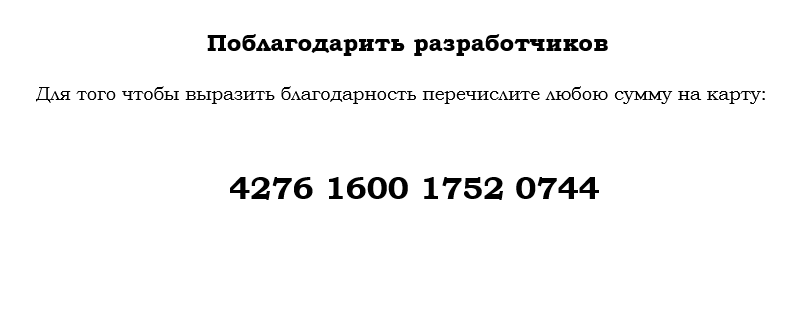
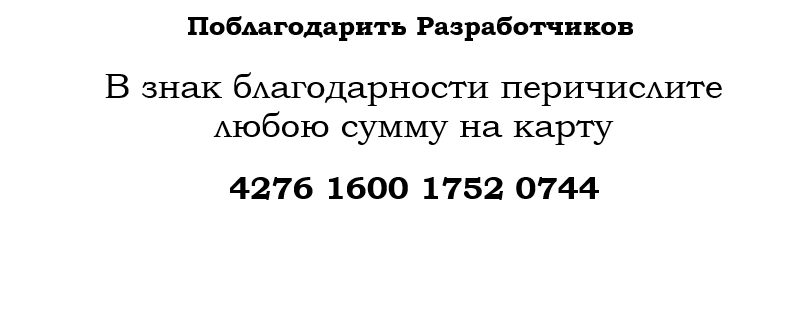
Переделал картинку поблагодарить разработчиков

Changed region(s): [[0.2185, 0.031, 0.8115, 0.1858], [0.0312, 0.2167, 0.9675, 0.3406], [0.2497, 0.3406, 0.7803, 0.4644]]

diff --git a/views/sass/_header.sass b/views/sass/_header.sass
@@ -161,12 +161,18 @@
     left: 50%
     transform: translate(-50%, -50%)
     z-index: 100
-    &__img
+    &__img-background
         border: 1px solid black
+        width: 32rem
+
+        height: 13rem
+        background-image: url('/img/thanks.png')
+        background-size: contain
+        background-repeat: no-repeat 
     &__close-img
         position: relative
-        left: 77.8rem
-        top: -32.5rem
+        left: 29.5rem
+        top: -13.0rem
         border: 1px solid black
-        z-index: 100
+        z-index: 101
         cursor: pointer

diff --git a/views/css/style.css b/views/css/style.css
@@ -211,15 +211,20 @@ html {
   transform: translate(-50%, -50%);
   z-index: 100;
 }
-.thank__img {
+.thank__img-background {
   border: 1px solid black;
+  width: 32rem;
+  height: 13rem;
+  background-image: url("/img/thanks.png");
+  background-size: contain;
+  background-repeat: no-repeat;
 }
 .thank__close-img {
   position: relative;
-  left: 77.8rem;
-  top: -32.5rem;
+  left: 29.5rem;
+  top: -13rem;
   border: 1px solid black;
-  z-index: 100;
+  z-index: 101;
   cursor: pointer;
 }
 
